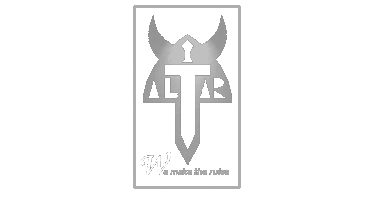
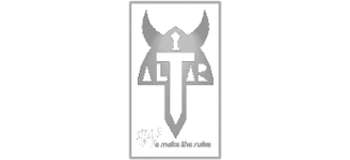
CSS simplified by using more Bootstrap

Changed region(s): [[0.3429, 0.0, 0.6571, 1.0], [0.4857, 0.2188, 0.5143, 0.25], [0.4857, 0.1562, 0.5143, 0.1875]]

diff --git a/index.html b/index.html
@@ -14,50 +14,50 @@
 <div class="background-image"></div>
 <div class="container">
     <div class="row">
-        <a href="https://pph.drdplus.info" class="pph handbook link col-sm">
+        <a href="https://pph.drdplus.info" class="pph handbook link col-sm-3">
             <span class="name">PPH (Pravidla pro hráče)</span>
         </a>
         <a href="https://bojovnik.drdplus.info"
-           class="bojovnik handbook link col-sm"><span class="name">Bojovník</span></a>
+           class="bojovnik handbook link col-sm-3"><span class="name">Bojovník</span></a>
         <a href="https://carodej.drdplus.info"
-           class="carodej handbook link col-sm"><span class="name">Čaroděj</span>
+           class="carodej handbook link col-sm-3"><span class="name">Čaroděj</span>
         </a>
-        <a href="https://zlodej.drdplus.info" class="zlodej handbook link col-sm">
+        <a href="https://zlodej.drdplus.info" class="zlodej handbook link col-sm-3">
             <span class="name">Zloděj</span>
         </a>
     </div>
     <div class="row">
-        <a href="https://hranicar.drdplus.info" class="hranicar handbook link col-sm"><span
+        <a href="https://hranicar.drdplus.info" class="hranicar handbook link col-sm-3"><span
                 class="name">Hraničář</span></a>
-        <a href="https://theurg.drdplus.info" class="theurg handbook link col-sm"><span
+        <a href="https://theurg.drdplus.info" class="theurg handbook link col-sm-3"><span
                 class="name">Theurg</span></a>
-        <a href="https://knez.drdplus.info" class="knez handbook link col-sm"><span
+        <a href="https://knez.drdplus.info" class="knez handbook link col-sm-3"><span
                 class="name">Kněz</span></a>
-        <a href="https://ppj.drdplus.info" class="ppj handbook link col-sm"><span
+        <a href="https://ppj.drdplus.info" class="ppj handbook link col-sm-3"><span
                 class="name">PPJ (pravidla pro PJ) <img
                 src="/images/lock.png" alt="Gemoji image for :lock" class="lock"></span></a>
     </div>
     <div class="row">
-        <a href="https://bestiar.drdplus.info" class="bestiar handbook link col-sm"><span
+        <a href="https://bestiar.drdplus.info" class="bestiar handbook link col-sm-3"><span
                 class="name">Bestiář <span class="percents">(45 %)</span></span></a>
         <a href="https://formule.theurg.drdplus.info"
-           class="theurg-calculator link col-sm"><span
+           class="theurg-calculator link col-sm-3"><span
                 class="name">Formule pro Theurga - kalkulátor</span></a>
         <a href="https://boj.drdplus.info"
-           class="fight-calculator link col-sm"><span
+           class="fight-calculator link col-sm-3"><span
                 class="name">Do boje! - kalkulátor zbraní</span></a>
         <a href="https://pad.drdplus.info"
-           class="fall-calculator link col-sm"><span
+           class="fall-calculator link col-sm-3"><span
                 class="name">Padáš! - kalkulátor zranění při pádu</span></a>
     </div>
     <div class="row">
         <a href="https://pribeh.drdplus.info"
-           class="pribeh link col-sm"><span
+           class="pribeh link col-sm-3"><span
                 class="name">Příběh z pravidel</span></a>
         <a href="https://blog.drdplus.info"
-           class="blog link col-sm"><span
+           class="blog link col-sm-3"><span
                 class="name">Blog z vývoje DrD+ 2</span></a>
-        <div class="links link journals col-sm">
+        <div class="links link journals col-sm-3">
             <a class="link" href="http://www.altar.cz/drdplus/denik_boj.pdf">Deník pro
                 bojovníka</a>
             <a class="link" href="http://www.altar.cz/drdplus/denik_car.pdf">Deník pro
@@ -70,7 +70,7 @@
             <a class="link" href="http://www.altar.cz/drdplus/denik_zlo.pdf">Deník pro
                 zloděje</a>
         </div>
-        <div class="taria links link col-sm">
+        <div class="taria links link col-sm-3">
             <a href="http://taria.unas.cz/index2.php"
                class="link"><span class="name">Taria</span></a>
             <a href="/pdf/severni_taria_drd_plus.pdf" class="link">
@@ -82,7 +82,7 @@
         </div>
     </div>
     <div class="row">
-        <div class="links link asterion col-sm">
+        <div class="links link asterion col-sm-3">
             <a href="http://asterionrpg.cz/" class="link"><span class="name">Asterion</span></a>
             <a class="link" href="http://www.altar.cz/drdplus/aplikace/ct_drd+.pdf">Čas
                 temna</a>
@@ -95,7 +95,7 @@
             <a class="link" href="http://www.altar.cz/drdplus/aplikace/hzm_drd+.pdf">Z
                 hlubin zelené a modré</a>
         </div>
-        <div class="links link asterion-applications col-sm">
+        <div class="links link asterion-applications col-sm-3">
             <a class="link" href="http://www.altar.cz/drdplus/aplikace/zp_drd+.pdf">Zlatá
                 pavučina</a>
             <a class="link" href="http://www.altar.cz/drdplus/aplikace/old_drd+.pdf">Obloha
@@ -110,7 +110,7 @@
                 o Asterionu</a>
         </div>
         <a href="https://rpgforum.cz/forum/viewforum.php?f=238"
-           class="rpgforum link col-sm"><span
+           class="rpgforum link col-sm-3"><span
                 class="name forum">RPG fórum - DrD+</span></a>
         <a href="http://altar.cz" class="altar link col-sm-3"><span class="name">Altar</span></a>
     </div>

diff --git a/css/main.css b/css/main.css
@@ -25,13 +25,10 @@ input[type=submit] {
 
 .link {
     display: block;
-    width: 15em;
-    max-width: 78vw;
     height: 8em;
     text-align: center;
-    line-height: 8em; /* to center text */
+    line-height: 8em;
     color: black;
-    margin: 0.5em;
     text-shadow: 0 0 3px whitesmoke, 0 0 1px white;
     background-size: cover;
 }
@@ -120,7 +117,7 @@ a.link:hover {
 }
 
 .bestiar-hover {
-    background: url(/images/bestiar-color-small.png) no-repeat -9999px 9999px;
+    background-image: url(/images/bestiar-color-small.png);
 }
 
 .pph {
@@ -204,7 +201,6 @@ a.link:hover {
 }
 
 .altar {
-    background-size: contain;
     background-image: url(/images/altar-monochrome.png);
     color: black;
 }
@@ -231,73 +227,73 @@ a.draci-hlidka:hover {
 }
 
 .theurg-calculator {
-    background: url(/images/theurg-calculator-monochrome-small.png) no-repeat;
+    background-image: url(/images/theurg-calculator-monochrome-small.png);
 }
 
 .theurg-calculator:hover {
-    background: url(/images/theurg-calculator-color-small.png) no-repeat;
+    background-image: url(/images/theurg-calculator-color-small.png);
 }
 
 .fight-calculator {
-    background: url(/images/fight-calculator-monochrome.png) no-repeat;
+    background-image: url(/images/fight-calculator-monochrome.png);
 }
 
 .fight-calculator:hover {
-    background: url(/images/fight-calculator-color.png) no-repeat;
+    background-image: url(/images/fight-calculator-color.png);
 }
 
 .rejstrik-pph {
-    background: url(/images/rejstrik-ppj-monochrome.png) no-repeat;
+    background-image: url(/images/rejstrik-ppj-monochrome.png);
 }
 
 .rejstrik-pph:hover {
-    background: url(/images/rejstrik-ppj-color.png) no-repeat;
+    background-image: url(/images/rejstrik-ppj-color.png);
 }
 
 .tabulky-pph {
-    background: url(/images/tabulky-pph-monochrome.png) no-repeat;
+    background-image: url(/images/tabulky-pph-monochrome.png);
 }
 
 .tabulky-pph:hover {
-    background: url(/images/tabulky-pph-color.png) no-repeat;
+    background-image: url(/images/tabulky-pph-color.png);
 }
 
 .severni-taria {
-    background: url(/images/severni-taria-monochrome.png) no-repeat;
+    background-image: url(/images/severni-taria-monochrome.png);
 }
 
 .severni-taria:hover {
-    background: url(/images/severni-taria-color.png) no-repeat;
+    background-image: url(/images/severni-taria-color.png);
 }
 
 .taria-zahvozdi {
-    background: url(/images/taria-zahvozdi-monochrome.png) no-repeat;
+    background-image: url(/images/taria-zahvozdi-monochrome.png);
 }
 
 .taria-zahvozdi:hover {
-    background: url(/images/taria-zahvozdi-color.png) no-repeat;
+    background-image: url(/images/taria-zahvozdi-color.png);
 }
 
 .taria {
-    background: url(/images/taria-monochrome.png) no-repeat;
+    background-image: url(/images/taria-monochrome.png);
 }
 
 .taria:hover {
-    background: url(/images/taria-color.png) no-repeat;
+    background-image: url(/images/taria-color.png);
 }
 
 .rpgforum {
-    background: url(/images/rpgforum-monochrome.png) no-repeat;
+    background-image: url(/images/rpgforum-monochrome.png);
 }
 
 .rpgforum:hover {
-    background: url(/images/rpgforum-color.png) no-repeat;
+    background-image: url(/images/rpgforum-color.png);
 }
 
 .fall-calculator {
-    background: url(/images/falling-monochrome.png) no-repeat;
+    background-image: url(/images/falling-monochrome.png);
 }
 
 .fall-calculator:hover {
-    background: url(/images/falling-color.png) no-repeat;
+    background-image: url(/images/falling-color.png);
 }
